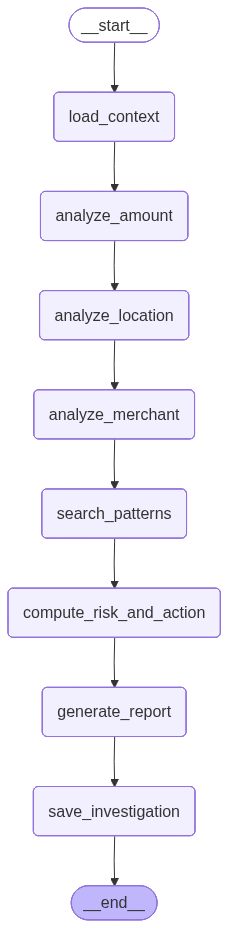
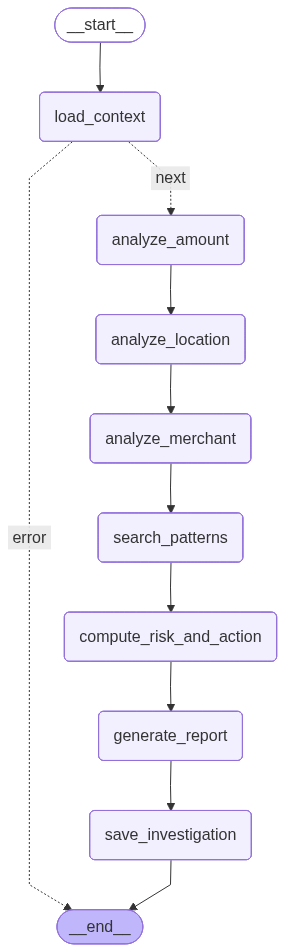
fix: handle missing transaction in load_context

diff --git a/agent/graph.py b/agent/graph.py
@@ -50,7 +50,14 @@ def build_graph() -> StateGraph:
 
     # Wire edges — strict linear pipeline, no branching
     graph.add_edge(START,                       "load_context")
-    graph.add_conditional_edges("load_context", route_after_load)
+    graph.add_conditional_edges(
+        "load_context",
+        route_after_load,
+        {
+            "error": END,
+            "next": "analyze_amount",
+        },
+    )
     graph.add_edge("analyze_amount",            "analyze_location")
     graph.add_edge("analyze_location",          "analyze_merchant")
     graph.add_edge("analyze_merchant",          "search_patterns")
